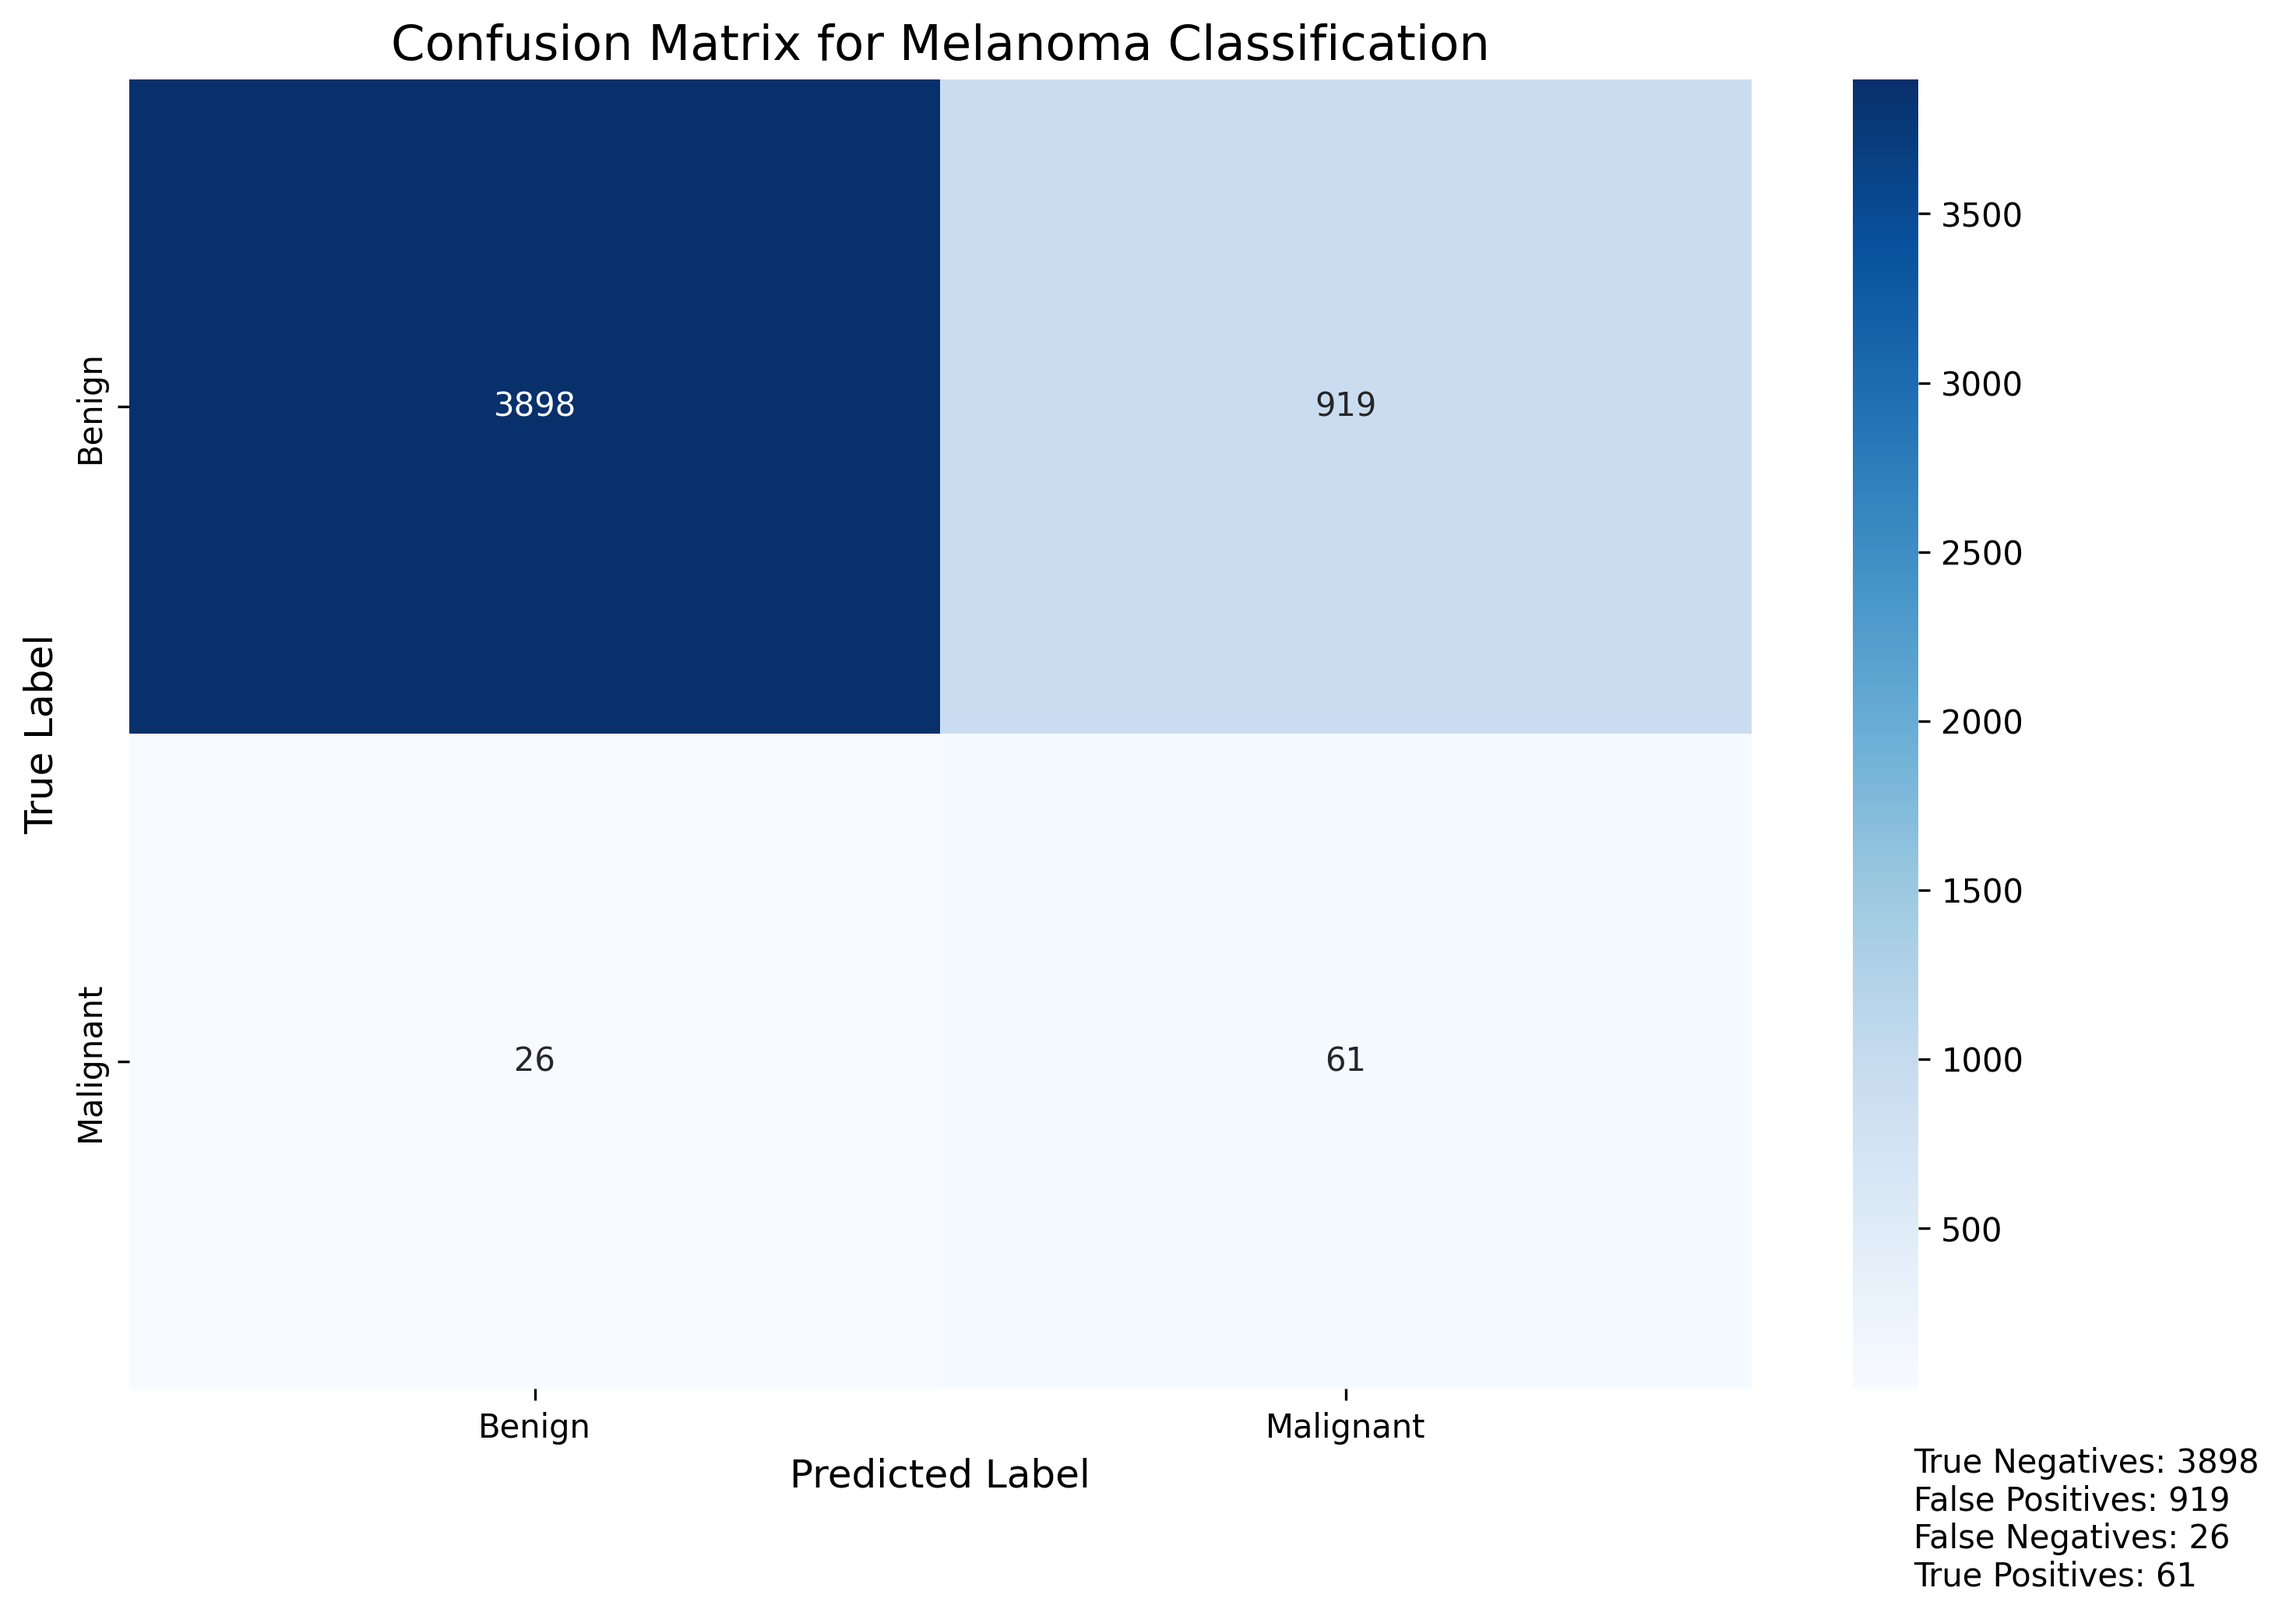
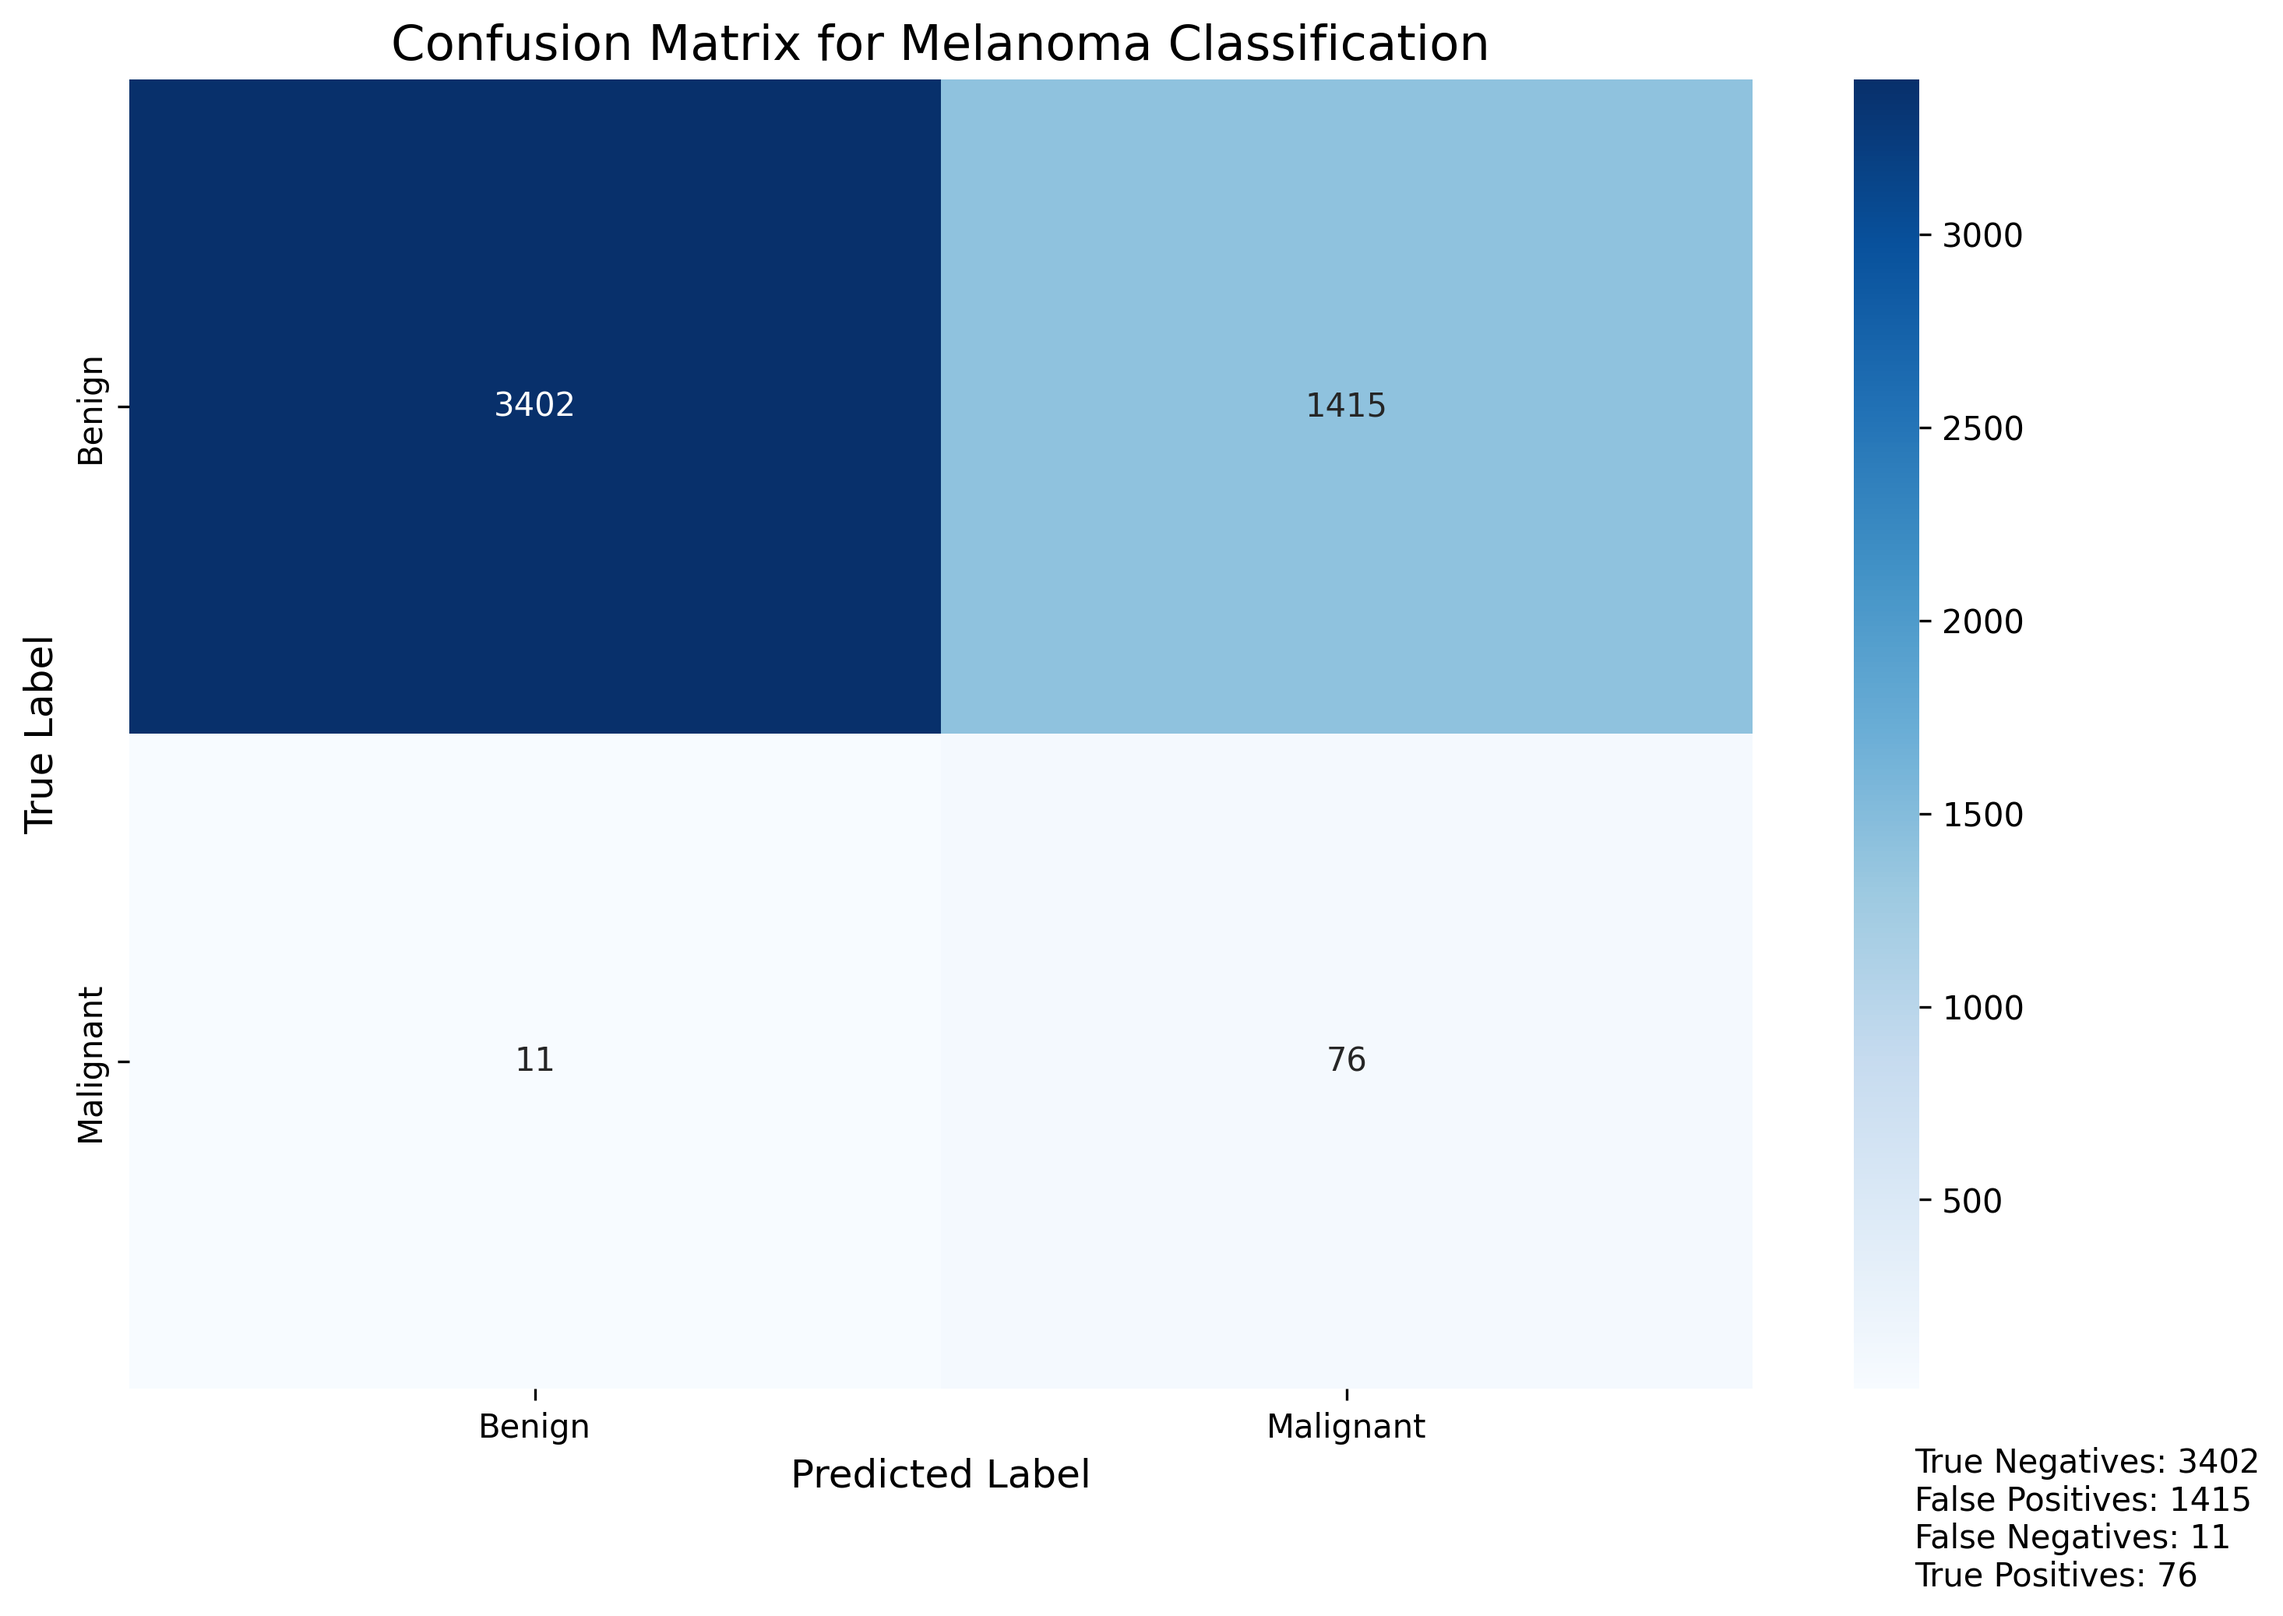
another run

diff --git a/trainer/trainer.py b/trainer/trainer.py
@@ -78,7 +78,7 @@ def train():
                 print(f"Ppositive class weight: {pos_weight.item():.2f}")
                 print(f"Malignant count: {malignant_count} --> using focal loss")
                 pos_weight=pos_weight.to(device)
-                loss_fn = FocalLoss(alpha=0.75, gamma=3, reduction="mean", pos_weight=pos_weight)
+                loss_fn = FocalLoss(alpha=0.85, gamma=4, reduction="mean", pos_weight=pos_weight)
             else:
                 print("WARNING: No malignant samples found in dataset, using unweighted loss")
                 loss_fn = nn.BCEWithLogitsLoss()
